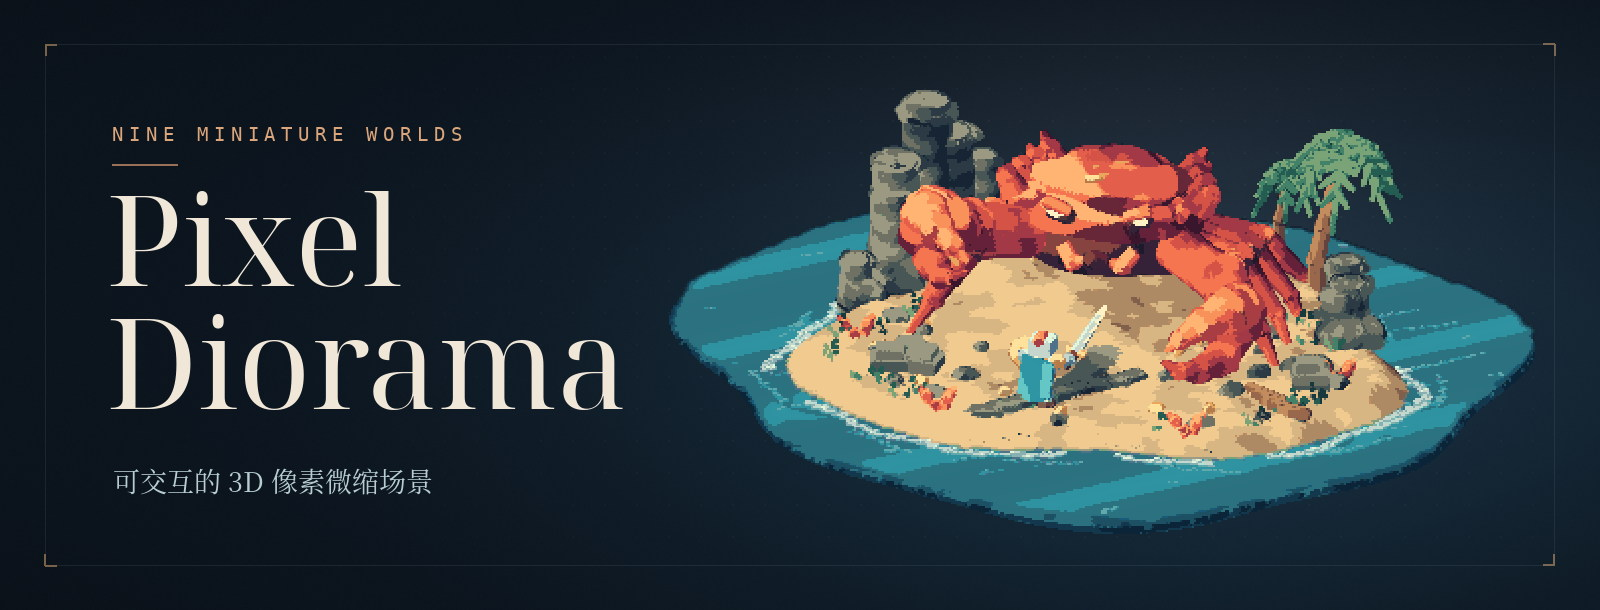
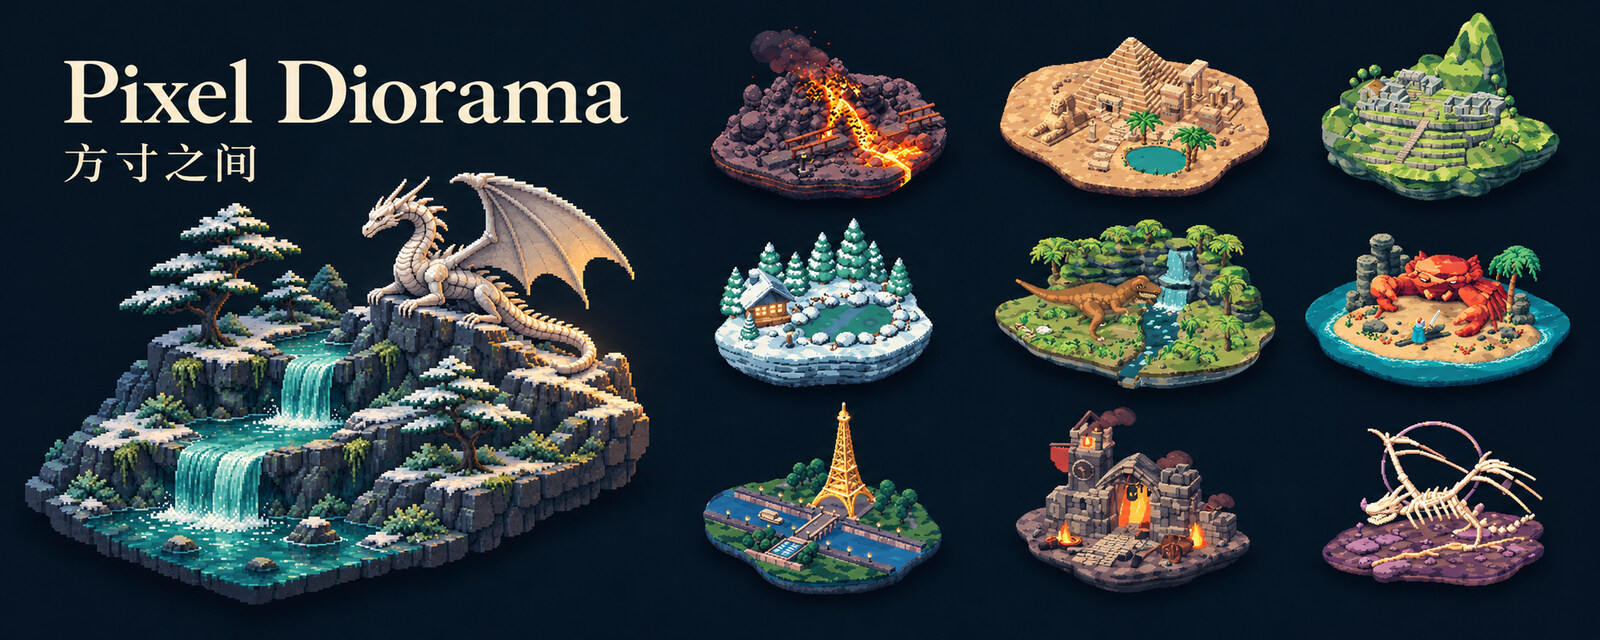
Feature the snow dragon and all nine worlds on the homepage

diff --git a/README.md b/README.md
@@ -1,4 +1,4 @@
-[![Pixel Diorama · 断潮岛，巨蟹守卫与持剑勇士](docs/cover.jpg)](media/pixel-diorama-nine-worlds.mp4)
+[![Pixel Diorama · 方寸之间，雪龙瀑布与九座像素微缩场景](docs/cover.jpg)](media/pixel-diorama-nine-worlds.mp4)
 
 # Pixel Diorama
 
